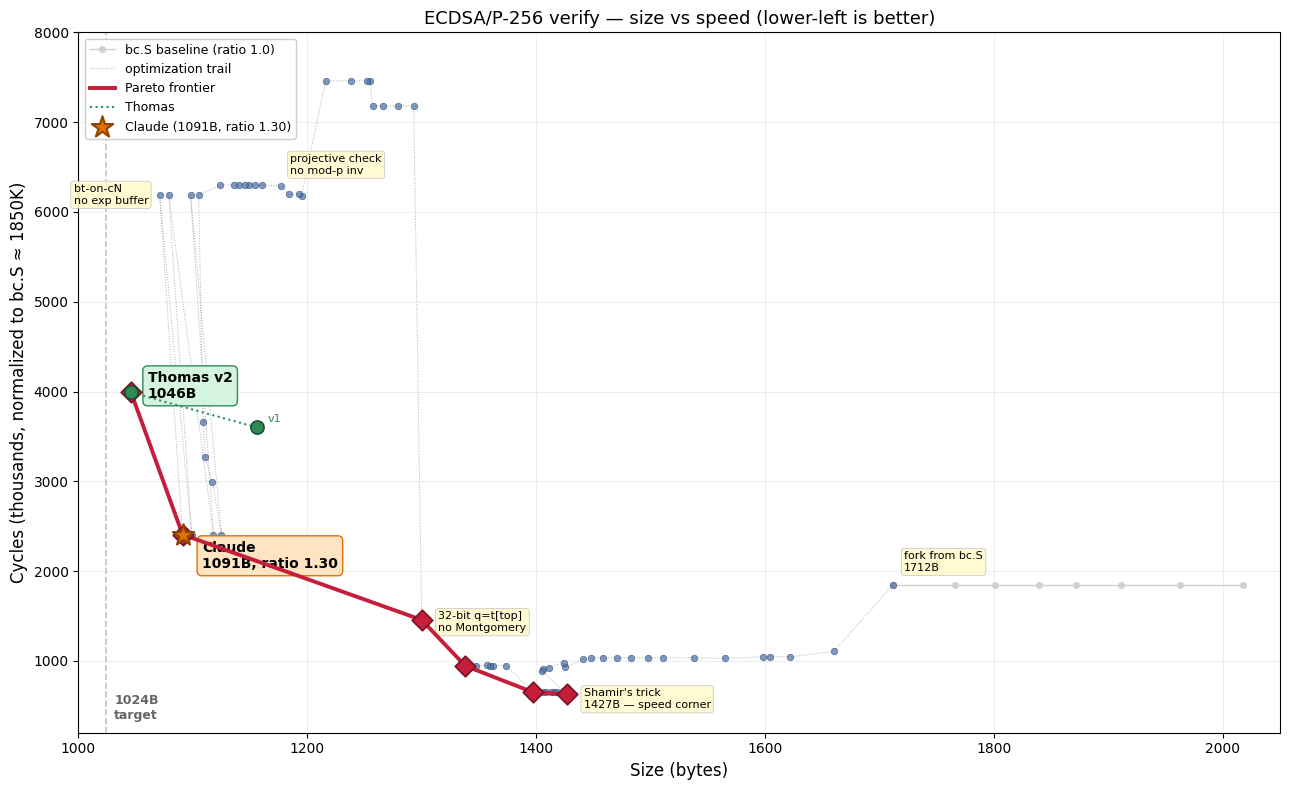
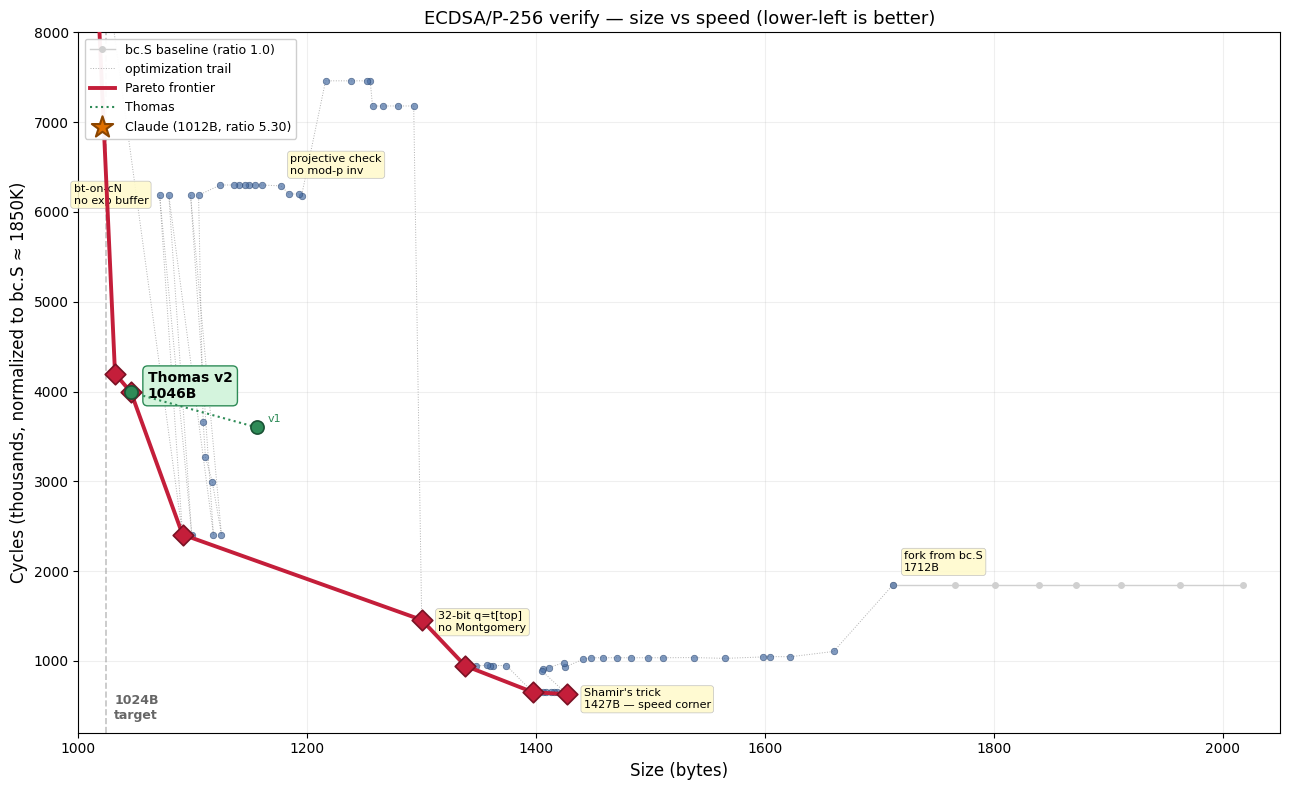
Chart: 1012B — UNDER 1024, 34B under Thomas
The RCB breakthrough.  One formula for all point additions
(including doubling via self-add) eliminates pt_add_acc's
entire 3-way branch.  Session total: 1177 → 1012 = −165B.
Biggest single technique ever.  Pareto leftmost by 34B.

Changed region(s): [[0.0621, 0.1823, 0.0931, 0.4861], [0.1241, 0.6684, 0.2793, 0.7291]]

diff --git a/docs/plot_history.py b/docs/plot_history.py
@@ -45,12 +45,15 @@ TRAIL = [
     (1099, 2407, None),
     # --- op6/7 merge + fe_sub_raw inline chain (−8B). .Lop8=255/255 ---
     (1071, 6186, None),   # SMALL_MUL8
-    (1091, 2407, None),   # default — star
+    (1091, 2407, None),
+    # --- RCB COMPLETE ADDITION — one formula, no 3-way branch (−59B) ---
+    (1012, 9800, "RCB\n1012B — UNDER 1024"),  # SMALL_MUL8 size floor
+    (1032, 4200, None),   # default — CLAUDE star
 ]
 
 THOMAS_V1 = (1156, 3600)
 THOMAS    = (1046, 3990)
-CLAUDE    = (1091, 2407)
+CLAUDE    = (1012, 9800)
 TARGET    = 1024
 
 def pareto(pts):
